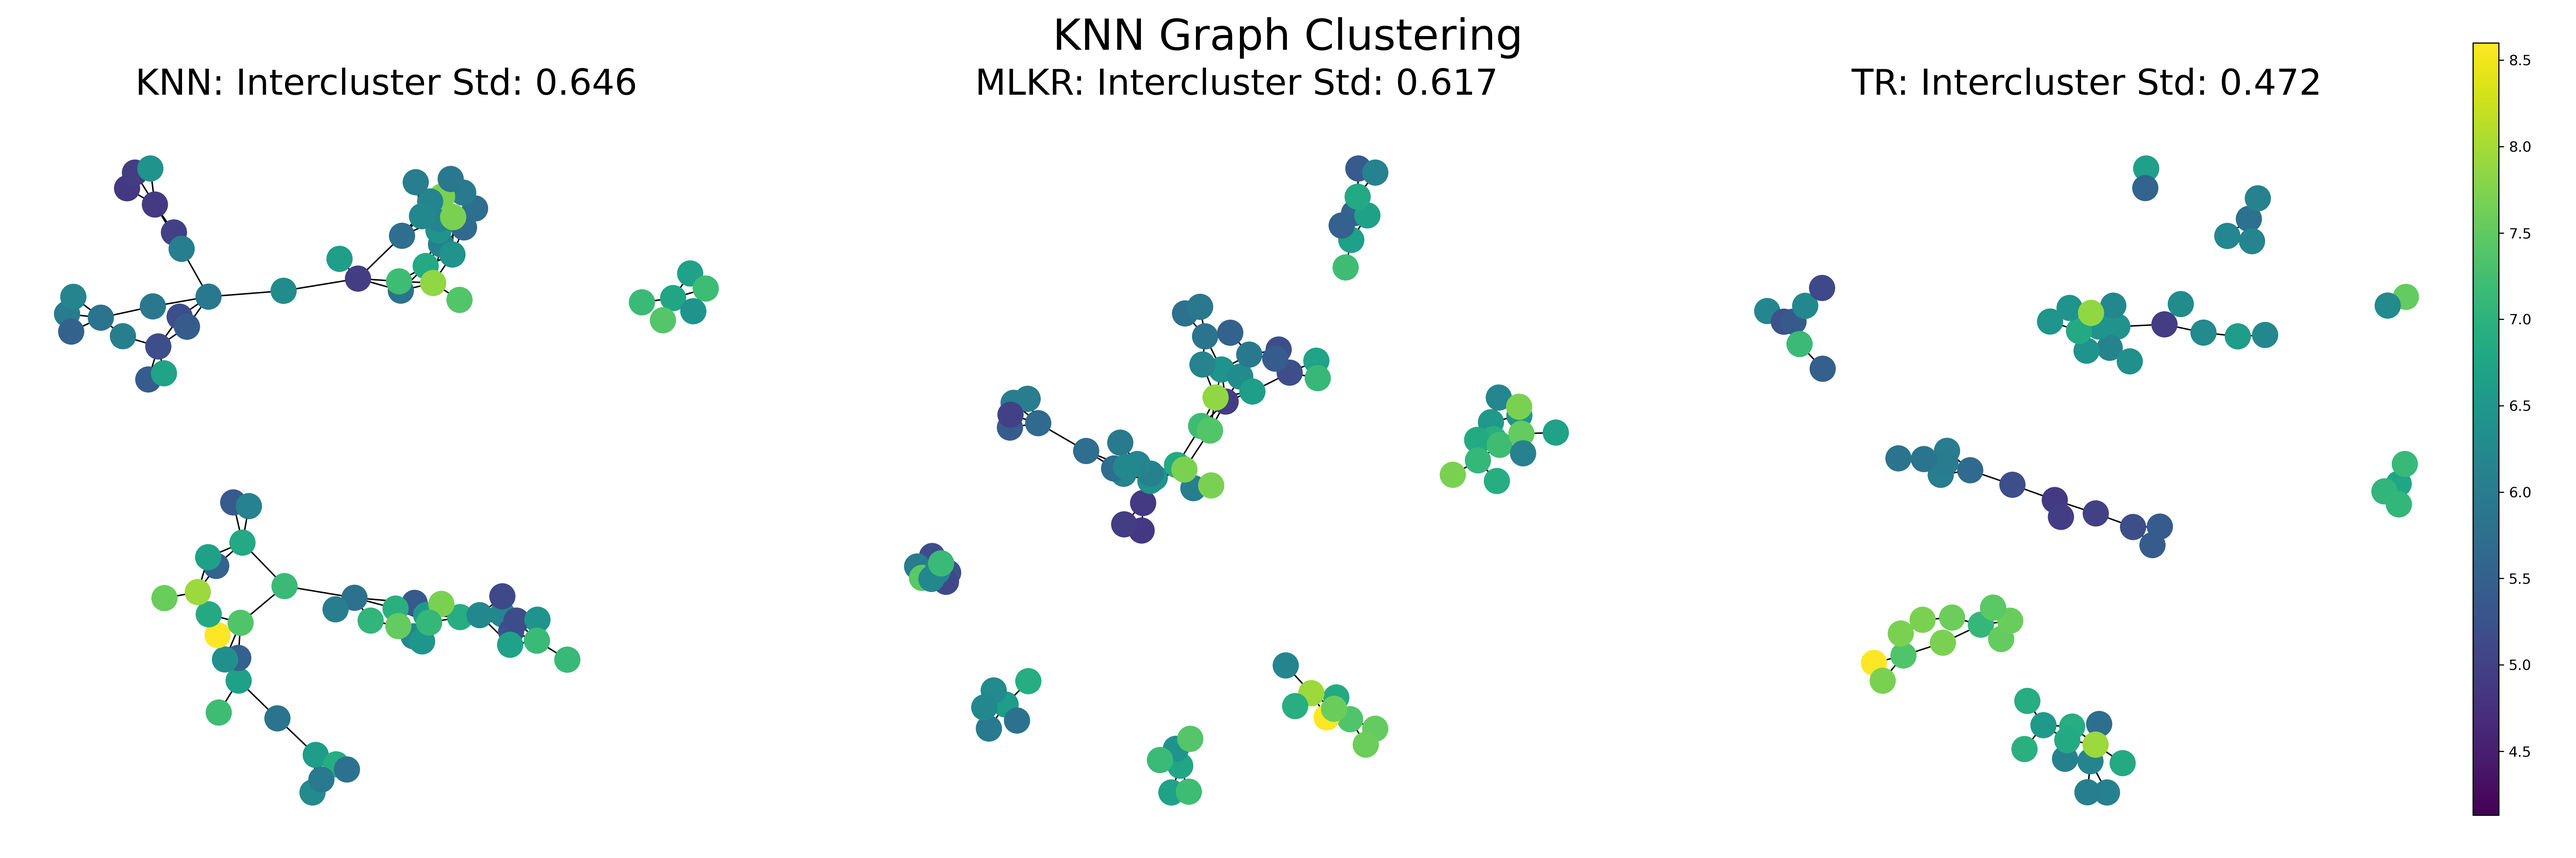
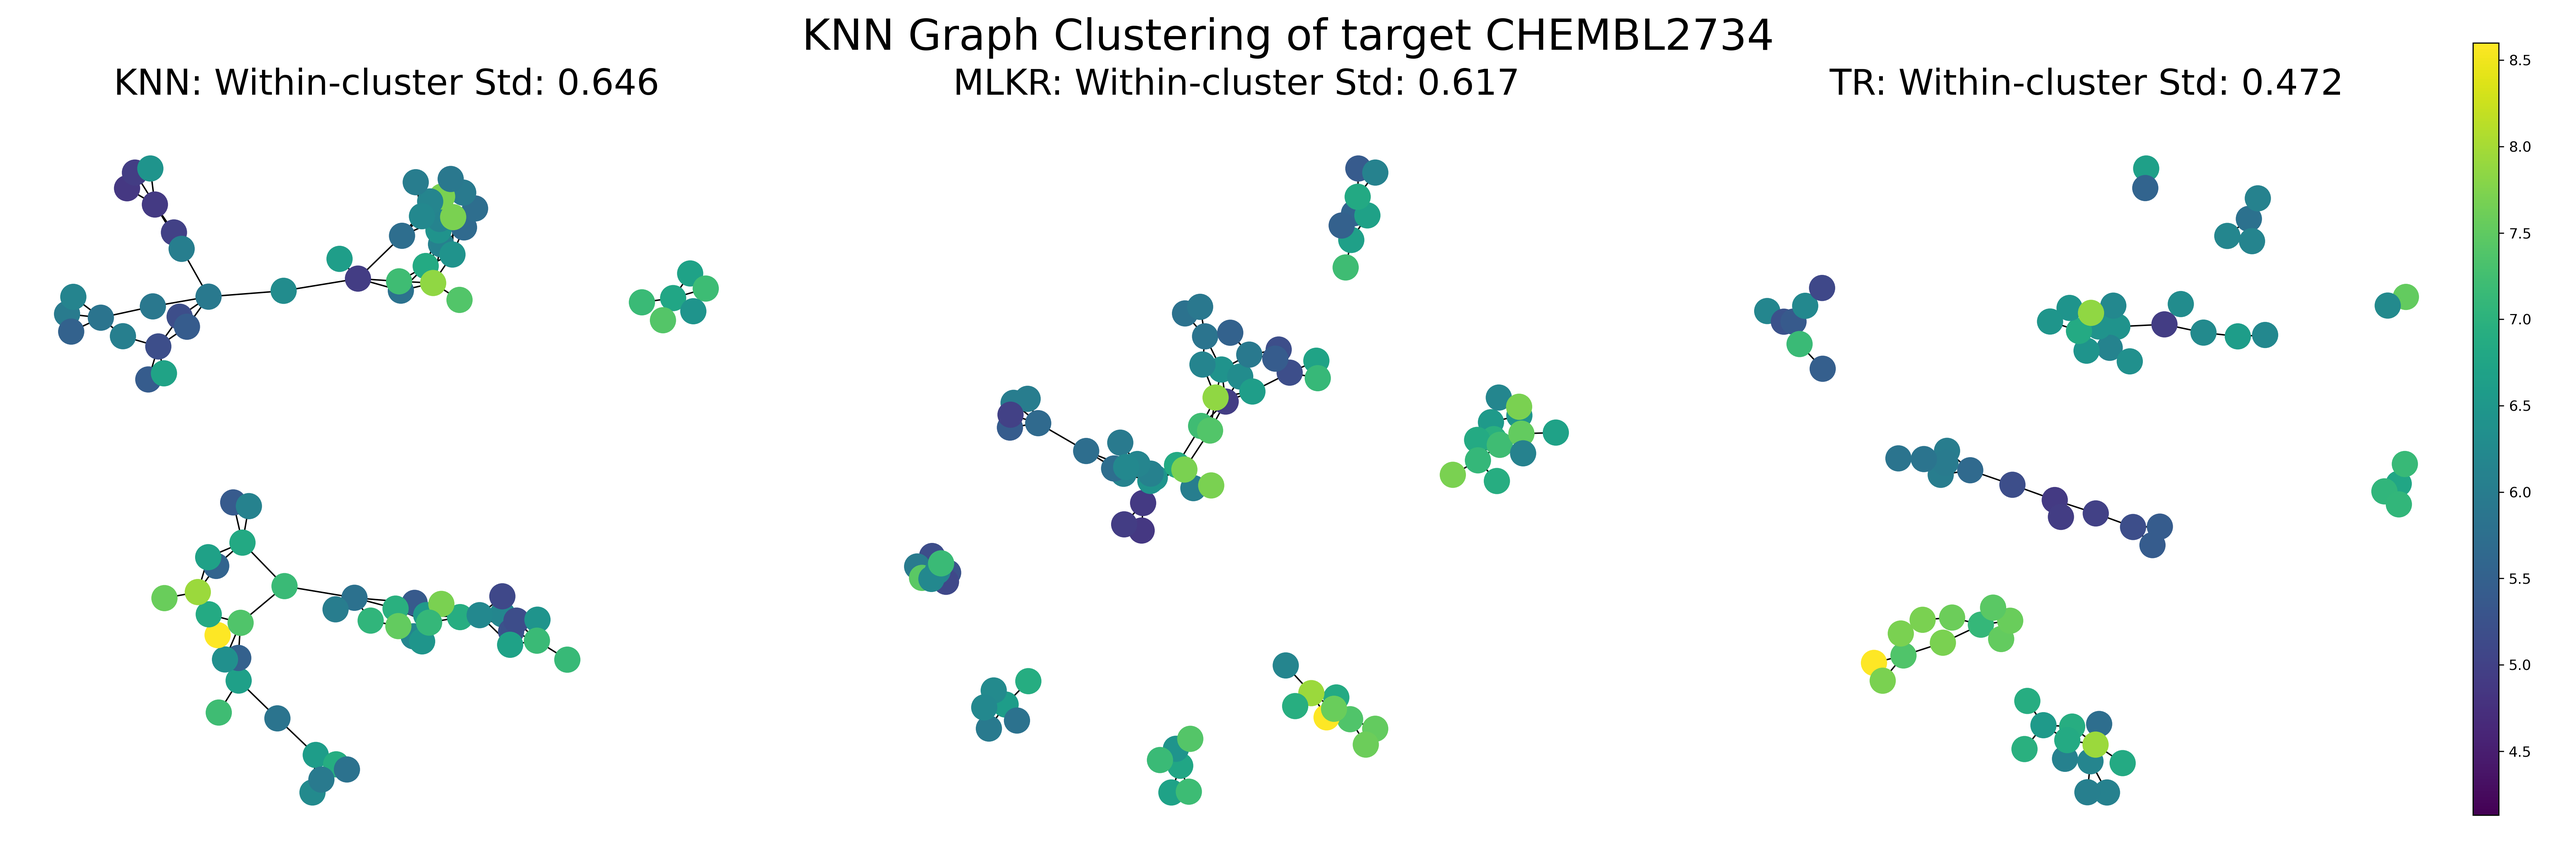
Changing plot titles
Changing plot titles

Changed region(s): [[0.312, 0.0, 0.6864, 0.1248], [0.0312, 0.0624, 0.2496, 0.1248], [0.7176, 0.0624, 0.9048, 0.1248]]

diff --git a/visualize_NN_test_predictions.py b/visualize_NN_test_predictions.py
@@ -166,7 +166,7 @@ def visualize_NN_test_predictions(args: ChemblNNVisualizationArgs):
     nx.draw(G,pos=pos,node_color=target[le.inverse_transform(G.nodes)], vmin=vmin, vmax=vmax)
     components =  (G.subgraph(c) for c in nx.connected_components(G)) #analyze connected subgraphs
     comp_dict_trTest  = {idx: comp.nodes() for idx, comp in enumerate(components)}
-    ax.set_title("TR: Intercluster Std: {:.3f}".format(np.mean([target[le.inverse_transform(comp_dict_trTest[i])].std() for i in range(len(comp_dict_trTest))])), fontsize=25)
+    ax.set_title("TR: Within-cluster Std: {:.3f}".format(np.mean([target[le.inverse_transform(comp_dict_trTest[i])].std() for i in range(len(comp_dict_trTest))])), fontsize=25)
     
     # KNN Subpot
     sub_i = 131
@@ -184,7 +184,7 @@ def visualize_NN_test_predictions(args: ChemblNNVisualizationArgs):
     nx.draw(G,pos=pos,node_color=target[le.inverse_transform(G.nodes)], vmin=vmin, vmax=vmax)
     components =  (G.subgraph(c) for c in nx.connected_components(G)) #analyze connected subgraphs
     comp_dict_knnTest = {idx: comp.nodes() for idx, comp in enumerate(components)}
-    ax.set_title("KNN: Intercluster Std: {:.3f}".format(np.mean([target[le.inverse_transform(comp_dict_knnTest[i])].std() for i in range(len(comp_dict_knnTest))])), fontsize=25)
+    ax.set_title("KNN: Within-cluster Std: {:.3f}".format(np.mean([target[le.inverse_transform(comp_dict_knnTest[i])].std() for i in range(len(comp_dict_knnTest))])), fontsize=25)
     
     # MLKR Subpot
     sub_i = 132
@@ -202,10 +202,10 @@ def visualize_NN_test_predictions(args: ChemblNNVisualizationArgs):
     nx.draw(G,pos=pos,node_color=target[le.inverse_transform(G.nodes)], vmin=vmin, vmax=vmax)
     components =  (G.subgraph(c) for c in nx.connected_components(G)) #analyze connected subgraphs
     comp_dict_MLKRTest = {idx: comp.nodes() for idx, comp in enumerate(components)}
-    ax.set_title("MLKR: Intercluster Std: {:.3f}".format(np.mean([target[le.inverse_transform(comp_dict_MLKRTest[i])].std() for i in range(len(comp_dict_MLKRTest))])), fontsize=25)
+    ax.set_title("MLKR: Within-cluster Std: {:.3f}".format(np.mean([target[le.inverse_transform(comp_dict_MLKRTest[i])].std() for i in range(len(comp_dict_MLKRTest))])), fontsize=25)
 
     # Formating and saving the figure
-    fig1.suptitle('KNN Graph Clustering', fontsize=30)
+    fig1.suptitle('KNN Graph Clustering of target '+args.path.split("/")[-2] , fontsize=30)
     cbar_ax = fig1.add_axes([0.96, 0.05, 0.01, 0.90])
     sm = plt.cm.ScalarMappable(cmap=cmap, norm=plt.Normalize(vmin = vmin, vmax=vmax))
     cbar = fig1.colorbar(sm, cax=cbar_ax)
